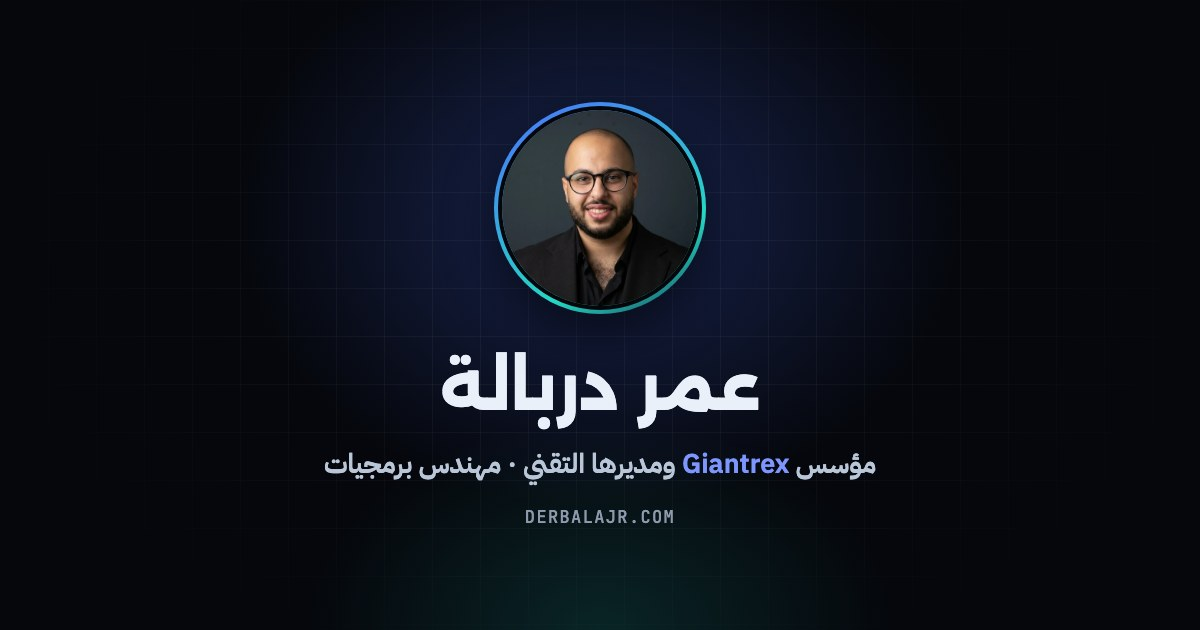
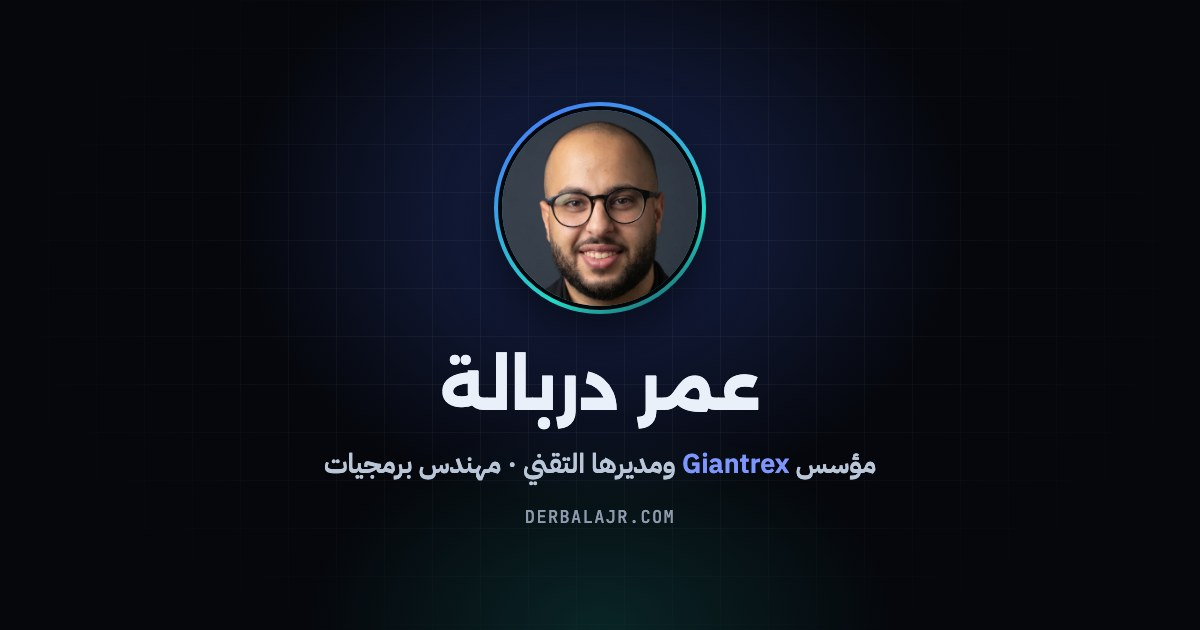
New 3:4 hero portrait
- 1200x1607 portrait replaces the square photo; the hero card is 3:4 again
- New filename (omar-derbala-portrait.webp) so Next's image optimizer and
  CDN caches can't keep serving the old picture; old URLs redirect
- Share cards re-rendered from it, zoomed so the face fills the circle

Changed region(s): [[0.4317, 0.181, 0.5858, 0.4825]]

diff --git a/docs/design/og/card.html b/docs/design/og/card.html
@@ -67,14 +67,23 @@
         background: linear-gradient(150deg, #4c6fff, #24d8c4 70%, rgba(36, 216, 196, 0.2));
         box-shadow: 0 18px 48px rgba(0, 0, 0, 0.55);
       }
-      .portrait img {
+      .portrait .crop {
         width: 100%;
         height: 100%;
         border-radius: 50%;
-        object-fit: cover;
-        object-position: 50% 30%;
-        display: block;
+        overflow: hidden;
         border: 4px solid #05070c;
+      }
+      /* The source is a 3:4 head-and-shoulders portrait; zoom in so the face,
+         not the jacket, fills the circle. */
+      .portrait img {
+        width: 100%;
+        height: 100%;
+        object-fit: cover;
+        object-position: 50% 0%;
+        transform: scale(1.32);
+        transform-origin: 50% 30%;
+        display: block;
       }
       h1 {
         margin-top: 30px;
@@ -108,7 +117,7 @@
     <div class="card">
       <div class="grid"></div>
       <div class="col">
-        <div class="portrait"><img src="__PHOTO__" alt="" /></div>
+        <div class="portrait"><div class="crop"><img src="__PHOTO__" alt="" /></div></div>
         <h1>__NAME__</h1>
         <div class="role">__ROLE__</div>
         <div class="url">DERBALAJR.COM</div>

diff --git a/data/ar.ts b/data/ar.ts
@@ -22,9 +22,9 @@ export const heroData = {
     "مؤسس Giantrex ومديرها التقني، ومهندس برمجيات أول. أصمّم وأبني المنصات التي تُدار بها الأعمال، من نموذج البيانات حتى الواجهة، بأي تقنية تتطلبها المشكلة.",
   proof: ["★ Top Rated على Upwork", "نسبة نجاح 100%", "أكثر من 4 سنوات في بيئة الإنتاج"],
   portrait: {
-    src: "/omar-derbala.webp",
-    width: 1024,
-    height: 1024,
+    src: "/omar-derbala-portrait.webp",
+    width: 1200,
+    height: 1607,
     alt: "عمر دربالة، مؤسس Giantrex ومديرها التقني",
     caption: "عمر دربالة",
     status: "متصل",

diff --git a/data/en.ts b/data/en.ts
@@ -20,9 +20,9 @@ export const heroData = {
     "Founder and CTO of Giantrex, and a senior software engineer. I design and build the platforms businesses run on, from the data model to the interface, in whatever stack the problem calls for.",
   proof: ["★ Top Rated on Upwork", "100% Job Success", "4+ yrs in production"],
   portrait: {
-    src: "/omar-derbala.webp",
-    width: 1024,
-    height: 1024,
+    src: "/omar-derbala-portrait.webp",
+    width: 1200,
+    height: 1607,
     alt: "Omar Derbala, founder and CTO of Giantrex",
     caption: "Omar Derbala",
     status: "online",

diff --git a/app/shell.tsx b/app/shell.tsx
@@ -177,7 +177,7 @@ const personSchema = {
   url: SITE_URL,
   // Person.image is the portrait, not the share card — schema.org wants an
   // image of the person here.
-  image: `${SITE_URL}/omar-derbala.webp`,
+  image: `${SITE_URL}/omar-derbala-portrait.webp`,
   email: "derbalajr@gmail.com",
   telephone: "+201111293179",
   jobTitle: ["Founder & CTO", "Senior Full Stack Engineer"],

diff --git a/docs/design/og/README.md b/docs/design/og/README.md
@@ -22,7 +22,7 @@ node icon.mjs   # favicon.ico, icon-192/512, icon-maskable-512, apple-touch-icon
   and some Telegram clients to a square; LinkedIn and X show it whole.
 - JPEG, not WebP: LinkedIn and some chat apps still reject WebP previews,
   and WhatsApp drops preview images over roughly 300 KB.
-- The photo is `public/omar-derbala.webp`, the same as the hero and
+- The photo is `public/omar-derbala-portrait.webp`, the same as the hero and
   `Person.image` in the JSON-LD.
 
 Chat apps cache previews per URL. After changing the card, re-scrape with the
